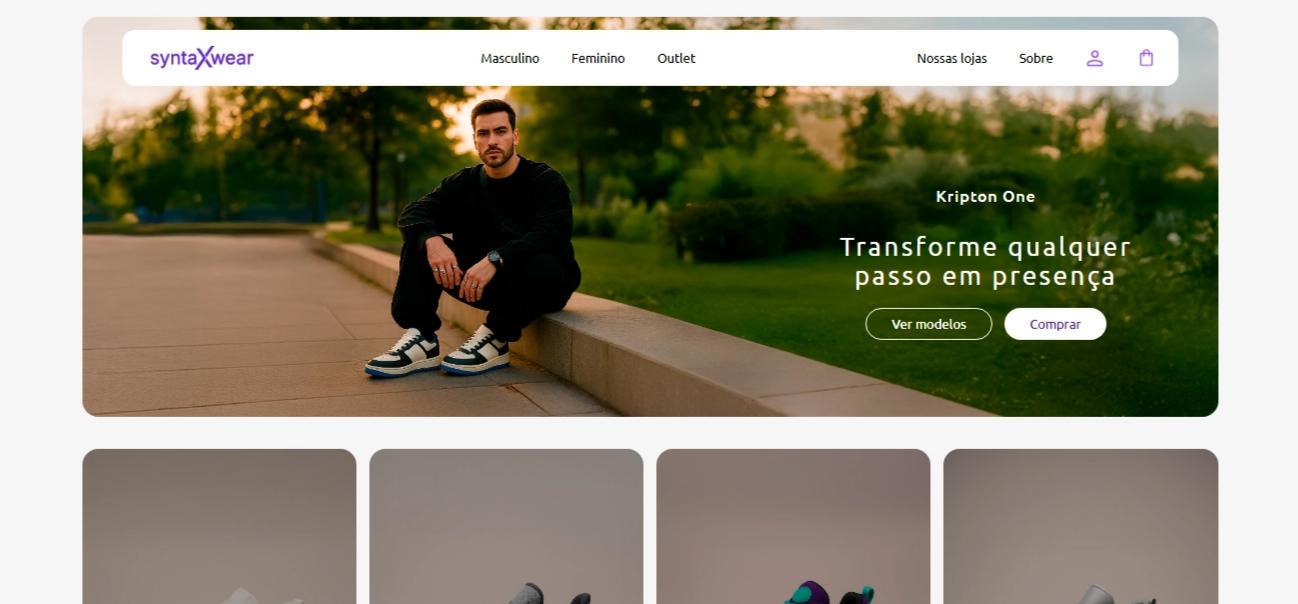
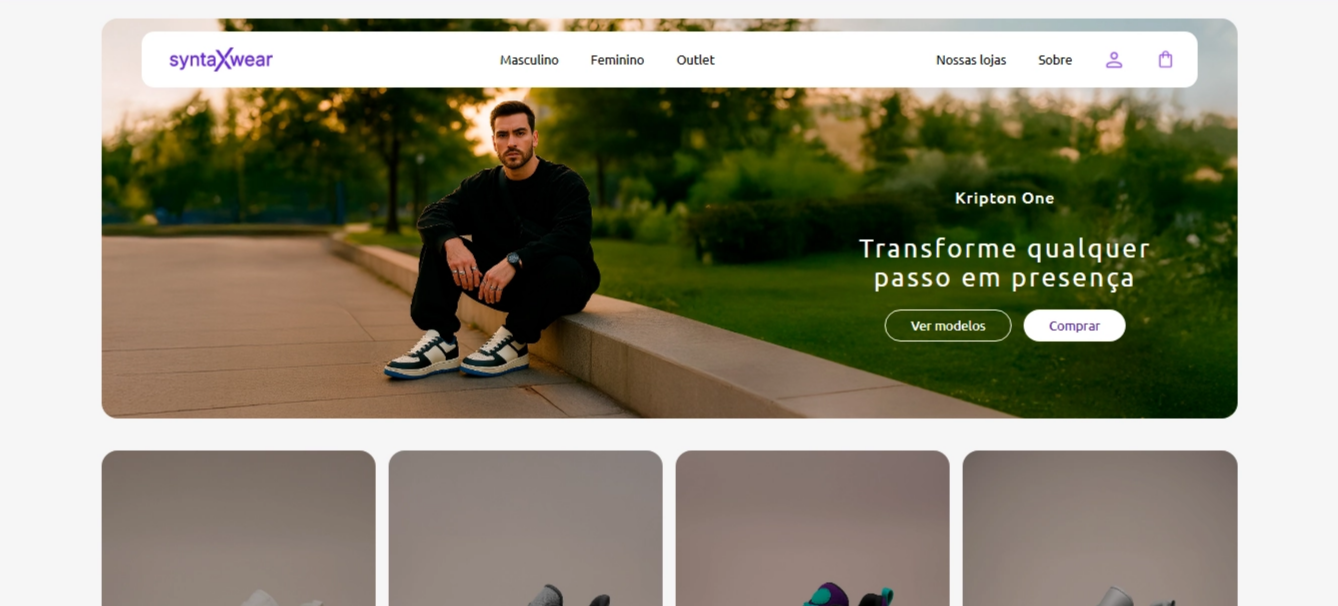
feat: ajusta projetos

diff --git a/index.html b/index.html
@@ -181,19 +181,19 @@
               <p>🔗 Ver no Vercel</p>
             </div>     
           </a>
-          <p>Página como estrutura de e-commerce de uma loja de sapatos, com carrinho de compras e página de checkout.</p>
+          <p>e-commerce</p>
         </div>
 
         <div class="projeto">        
           <a href="https://fernanda-nunes.github.io/landing-page-agencia-xyz/" target="_blank">
             <img src="./src/imagens/landing-page-agencia-xyz.png" alt="Landing Page Agência XYZ" />
-            <h3>Landing Page Agência XYZ</h3>
+            <h3>Page Agência XYZ</h3>
             <div class="informacoes-projeto">          
               <p>Projeto feito usando HTML, CSS e JavaScript</p>
               <p>🔗 Ver no GitHub Pages</p>
             </div>      
           </a>
-          <p>Página com estrutura do tipo Landing Page (header, main, section e footer) de uma agência de marketing digital, responsiva que se adapta a diferentes tamanhos de tela, e inclui interações nos botões do menu. </p>         
+          <p>Landing Page</p>         
         </div>
 
         <div class="projeto">     
@@ -205,19 +205,19 @@
               <p>🔗 Ver no GitHub Pages</p>
             </div>
           </a>
-          <p>Página que busca e apresenta na tela os dados do perfil de usuário do site GitHub, utilizando a API do GitHub.</p>  
+          <p>GitHub API Data Profile</p>  
         </div>
 
         <div class="projeto">
           <a href="https://fernanda-nunes.github.io/advice-generator-app/" target="_blank">
-            <img src="./src/imagens/advice-generator-app.jpg" alt="Advice Generator App" />
+            <img src="./src/imagens/advice-generator-app.png" alt="Advice Generator App" />
             <h3>Advice Generator App</h3>
             <div class="informacoes-projeto">
               <p>Projeto feito usando HTML, CSS e JavaScript.</p>
               <p>🔗 Ver no GitHub Pages</p>
             </div>
           </a>
-          <p>Página que gera conselhos aleatórios utilizando a API do Advice Slip.</p>
+          <p>API do Advice Slip</p>
         </div>
       </div>
     </div>

diff --git a/src/css/secoes/projetos.css b/src/css/secoes/projetos.css
@@ -1,9 +1,9 @@
 /* PROJETOS */
-.projetos .container-projetos {
+.projetos .container-projetos { 
     display: grid;        
     grid-template-columns: repeat(auto-fill, minmax(250px, 1fr));
-    margin: 0 auto;
-    grid-gap: 20px;       
+    margin: 0 auto; 
+    grid-gap: 15px;         
 }
 
 @media(max-width: 1280px) { 
@@ -18,7 +18,8 @@
     -moz-transition: all .3s ease;
     -o-transition: all .3s ease;
     -webkit-transition: all .3s ease;
-    position: relative;            
+    position: relative;   
+    height: 100%;        
 }
 
 .projetos .container-projetos .projeto:hover,
@@ -29,7 +30,6 @@
 .projetos .container-projetos .projeto img {
     border-top-left-radius: 5px;
     border-top-right-radius: 5px;
-    height: 100%;
 }
 
 .projetos .container-projetos .projeto .informacoes-projeto {